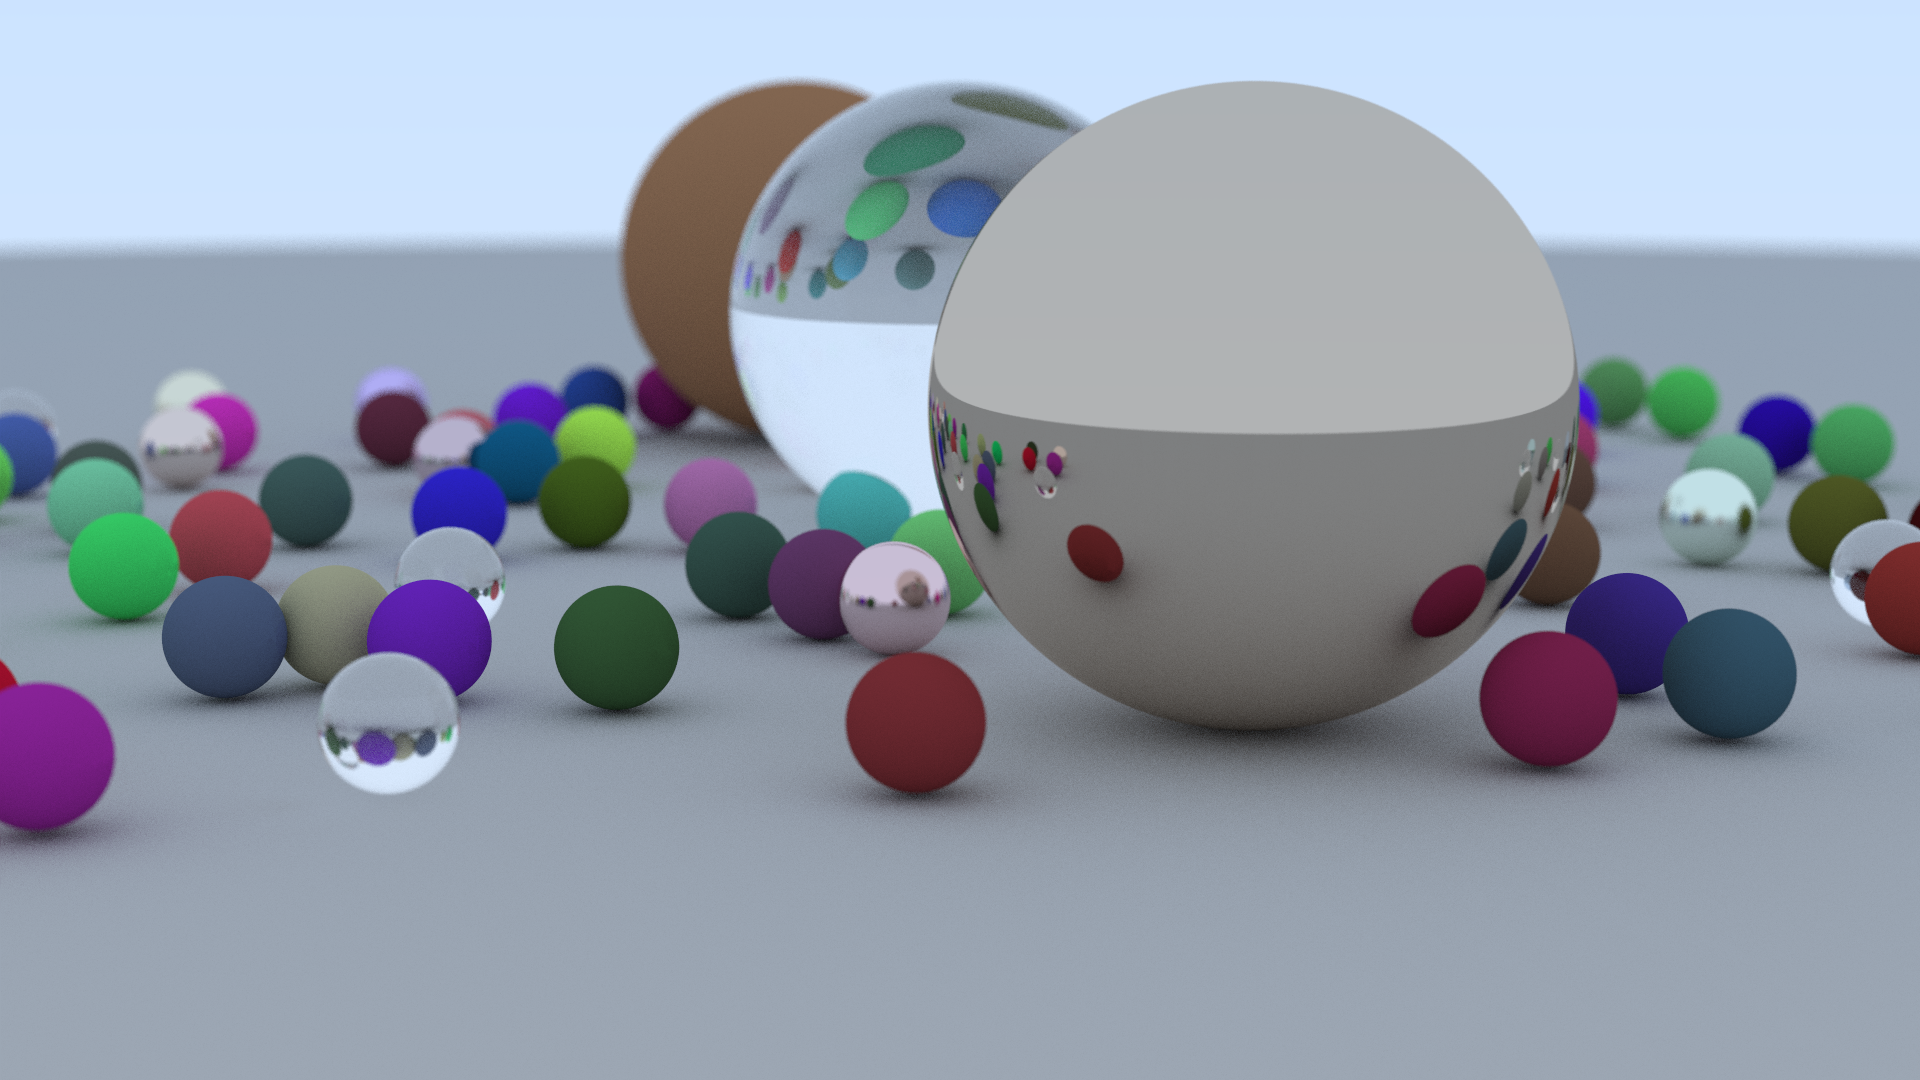
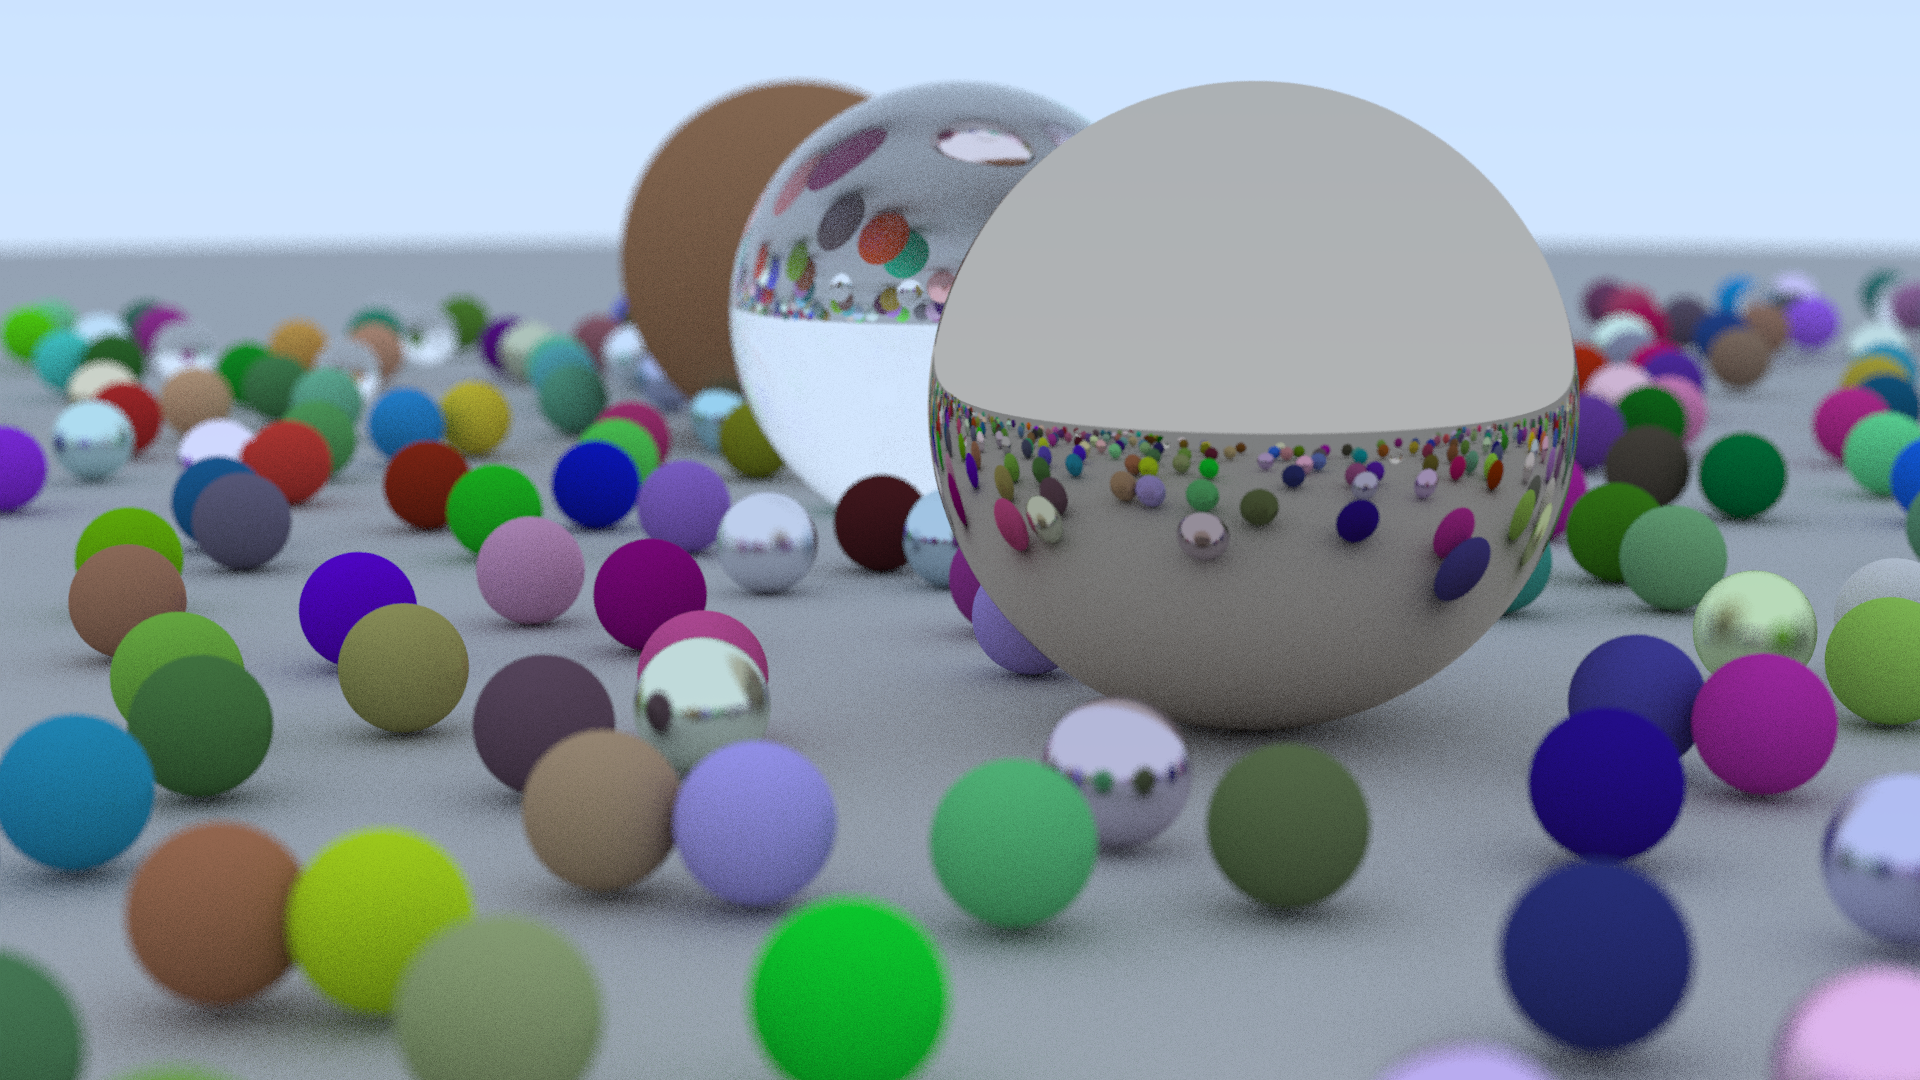
full size working

diff --git a/vexray/src/lib.rs b/vexray/src/lib.rs
@@ -46,8 +46,8 @@ fn create_cover_config() -> KernelConfig {
     let render_config = RenderConfig {
         width: 1920,
         height: 1080,
-        samples: 128,
-        bounces: 16,
+        samples: 32,
+        bounces: 8,
     };
 
     let camera_config = CameraConfig {
@@ -73,8 +73,8 @@ fn create_cover_scene() -> scene::Scene {
         ground_mat,
     ));
 
-    for a in -5..5 {
-        for b in -5..5 {
+    for a in -11..11 {
+        for b in -11..11 {
             let choose_mat: f64 = rng.gen();
             let center = glam::vec3(
                 a as f32 + 0.9 * rng.gen::<f32>(),
@@ -86,14 +86,17 @@ fn create_cover_scene() -> scene::Scene {
                 if choose_mat < 0.8 { // diffuse
                     let albedo = color::random_color(&mut rng) * color::random_color(&mut rng);
                     let mat = scene.register_material(Material::Diffuse(albedo));
+
                     scene.register_shape(Shape::Sphere(center, 0.2, mat));
                 } else if choose_mat < 0.95 { // metal
                     let albedo = color::random_color_range(&mut rng, 0.5, 1.0);
                     let roughness: f32 = rng.gen_range(0.0..0.5);
                     let mat = scene.register_material(Material::Metal(albedo, roughness));
+
                     scene.register_shape(Shape::Sphere(center, 0.2, mat));
                 } else { // dielectric
                     let mat = scene.register_material(Material::Dielectric(1.5));
+
                     scene.register_shape(Shape::Sphere(center, 0.2, mat));
                 }
             }

diff --git a/vexray/src/renderer/kernel.rs b/vexray/src/renderer/kernel.rs
@@ -1,3 +1,5 @@
+use log::info;
+
 use crate::core::gpu::Gpu;
 
 use super::{bindings::KernelBindings, buffers::KernelBuffers, config::KernelConfig};
@@ -81,7 +83,9 @@ impl Kernel {
         result_slice.map_async(wgpu::MapMode::Read, move |v| sender.send(v).unwrap());
 
         // Wait for result
-        gpu.device.poll(wgpu::Maintain::Wait);
+        let status = gpu.device.poll(wgpu::Maintain::Wait);
+
+        info!("Poll status: {}", status);
 
         if let Ok(Ok(_)) = receiver.recv_async().await {
             let result_view = result_slice.get_mapped_range();
